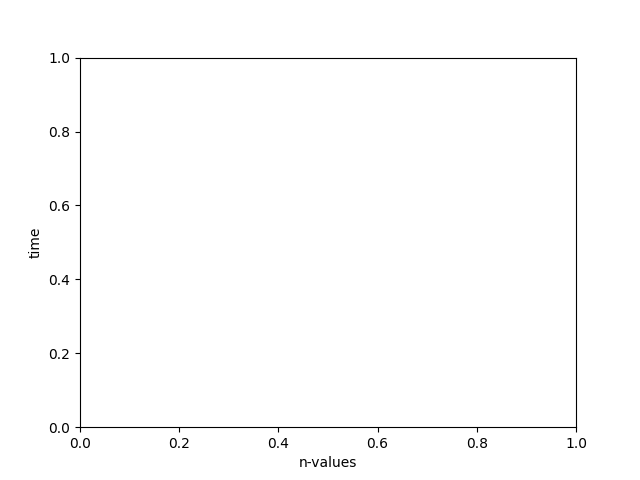
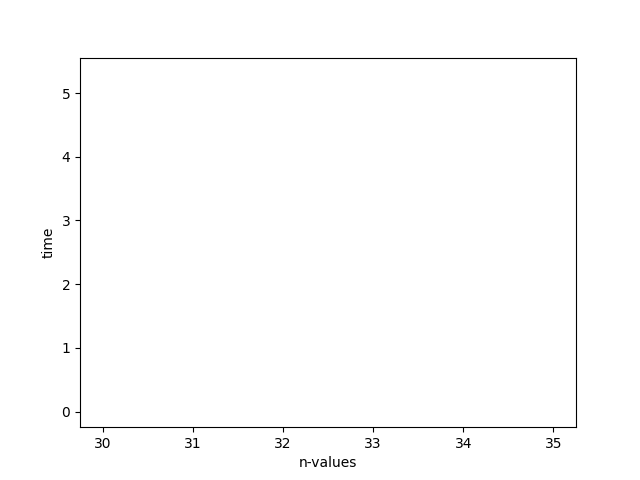
test with n=30 and n= 35

diff --git a/MA4_Files/MA4_2.py b/MA4_Files/MA4_2.py
@@ -1,5 +1,7 @@
 #!/usr/bin/env python3.9
 
+import concurrent.futures as future
+
 import multiprocessing as mp
 
 from numba import njit
@@ -25,11 +27,15 @@ def fib_threading_py(lst, func, n):
 	tick = pc()
 	func(n)
 	lst.append((n, pc()-tick))
+	print(lst)
+
+	return lst
 
 def fib_threading_cpp(lst, p, n):
 	tick = pc()
 	p.fib()
 	lst.append((n, pc()-tick))
+	return lst
 
 def plotting(fp, fn, fc):
 	for f in [fp ,fn, fc]:
@@ -49,25 +55,25 @@ def main():
 	fn = []
 	fc = []
 
-	for n in range(30, 46, 5):
+	for n in range(30, 39, 5):
 		print(f"n-value: {n}")
 		tick = pc()
 
-		p1 = mp.Process(target = fib_threading_py, args = (fp, fib_py, n))
+		with future.ProcessPoolExecutor() as ex:
+			p1 = ex.submit(fib_threading_py, fp, fib_py, n)
 
-		p2 = mp.Process(target = fib_threading_py, args = (fn, fib_numba, n))
+			p2 = ex.submit(fib_threading_py, fn, fib_numba, n)
 
-		f = Person(n)
+			f = Person(n)
 
-		p3 = mp.Process(target = fib_threading_cpp, args = (fc, f, n))
+			p3 = ex.submit(fib_threading_cpp, fc, f, n)
 
-		for p in [p1, p2, p3]:
-			p.start()
-
-		for p in [p1, p2, p3]:
-			p.join()
+			fp = p1.result()
+			fn = p2.result()
+			fc = p3.result()
 
 		print(f"total time for {n}: {pc()-tick}")
+		print(fp)
 
 	plotting(fp, fn, fc)
 
